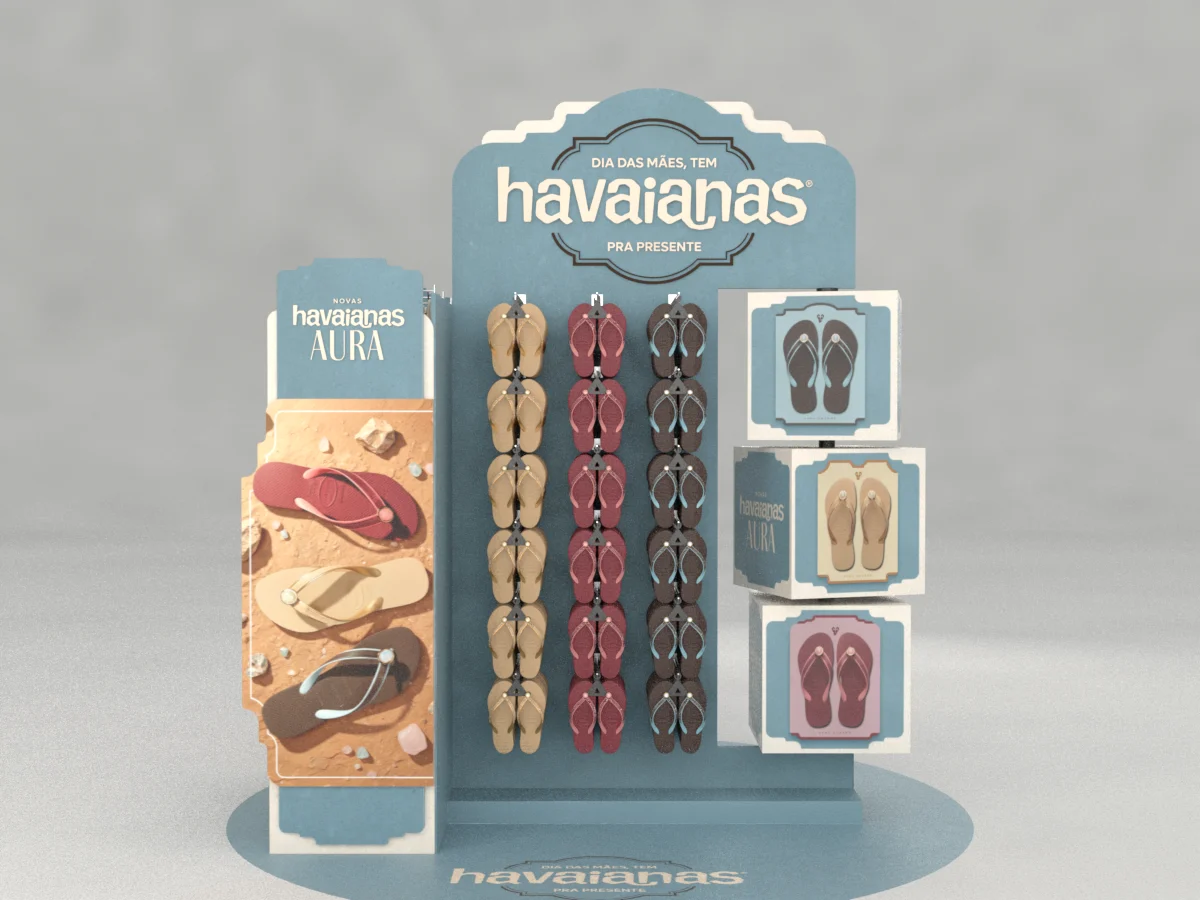
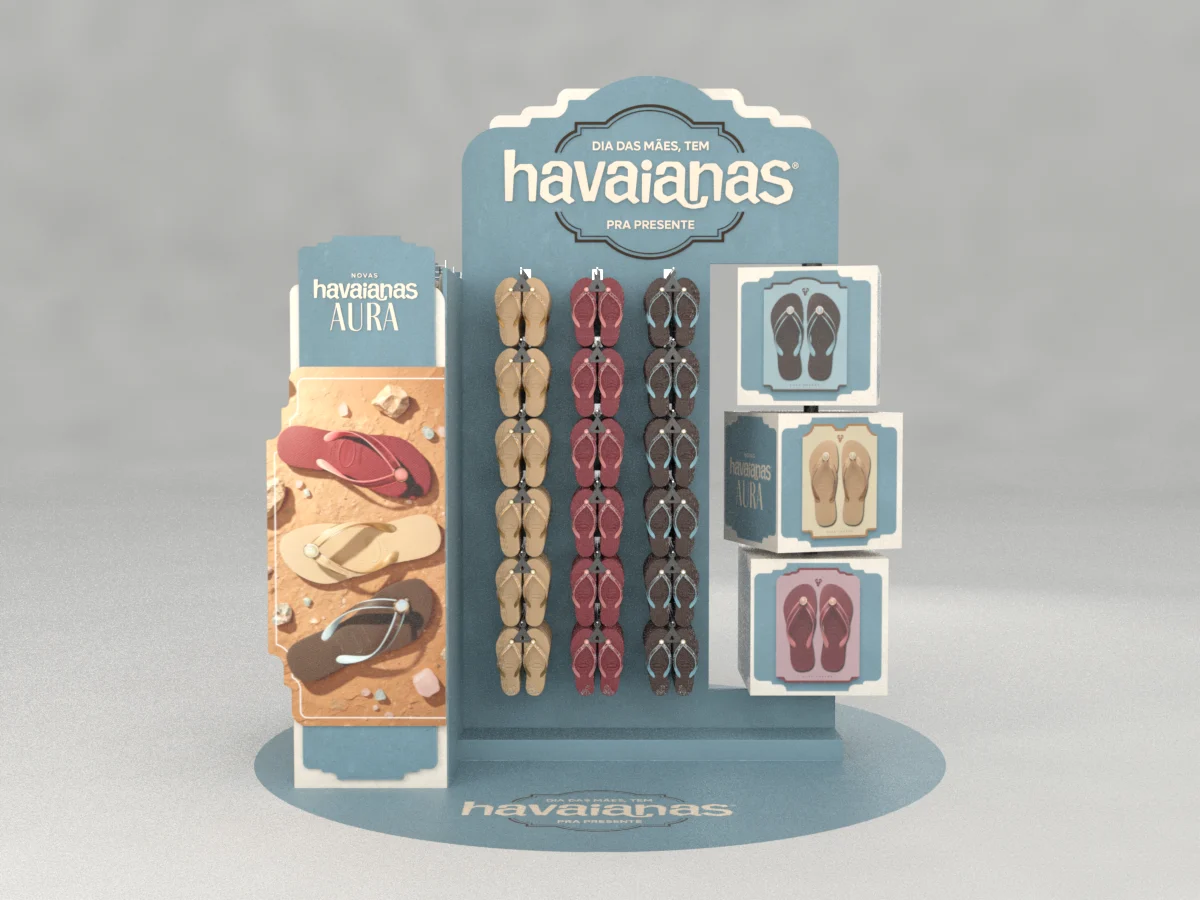
HAV009 R05: ilha com replicator, frontal sem cortar o adesivo

Changed region(s): [[0.1542, 0.0622, 0.8325, 1.0]]

diff --git a/havaianas-aura-maes-75lab/index.html b/havaianas-aura-maes-75lab/index.html
@@ -9,7 +9,7 @@
 <meta name="robots" content="noindex">
 <link rel="preconnect" href="https://fonts.googleapis.com"><link rel="preconnect" href="https://fonts.gstatic.com" crossorigin>
 <link href="https://fonts.googleapis.com/css2?family=Big+Shoulders+Display:wght@700;900&family=Space+Grotesk:wght@400;500;600;700&family=Space+Mono:wght@400;700&display=swap" rel="stylesheet">
-<link rel="stylesheet" href="assets/deck.css"><link rel="stylesheet" href="assets/bombril.css"><link rel="stylesheet" href="assets/v2.css"><link rel="stylesheet" href="assets/havaianas.css?v=202611251740">
+<link rel="stylesheet" href="assets/deck.css"><link rel="stylesheet" href="assets/bombril.css"><link rel="stylesheet" href="assets/v2.css"><link rel="stylesheet" href="assets/havaianas.css?v=202611251743">
 </head>
 <body>
 <svg width="0" height="0" style="position:absolute" aria-hidden="true">
@@ -225,6 +225,6 @@
 <div id="cursor"></div><div id="anel"><span id="anelTxt"></span></div>
 <div id="gire"><img src="assets/75lab-lime.png" alt="75 LAB"><div class="tel"></div><h3>Gire o celular</h3><p>A apresentação foi desenhada na horizontal. Deitado, o celular mostra a tela inteira.</p><button class="botao mini" id="verAssim">Ver assim mesmo</button></div>
 <script src="assets/deck.js"></script>
-<script src="assets/havaianas.js?v=202611251740"></script>
+<script src="assets/havaianas.js?v=202611251743"></script>
 </body>
 </html>
